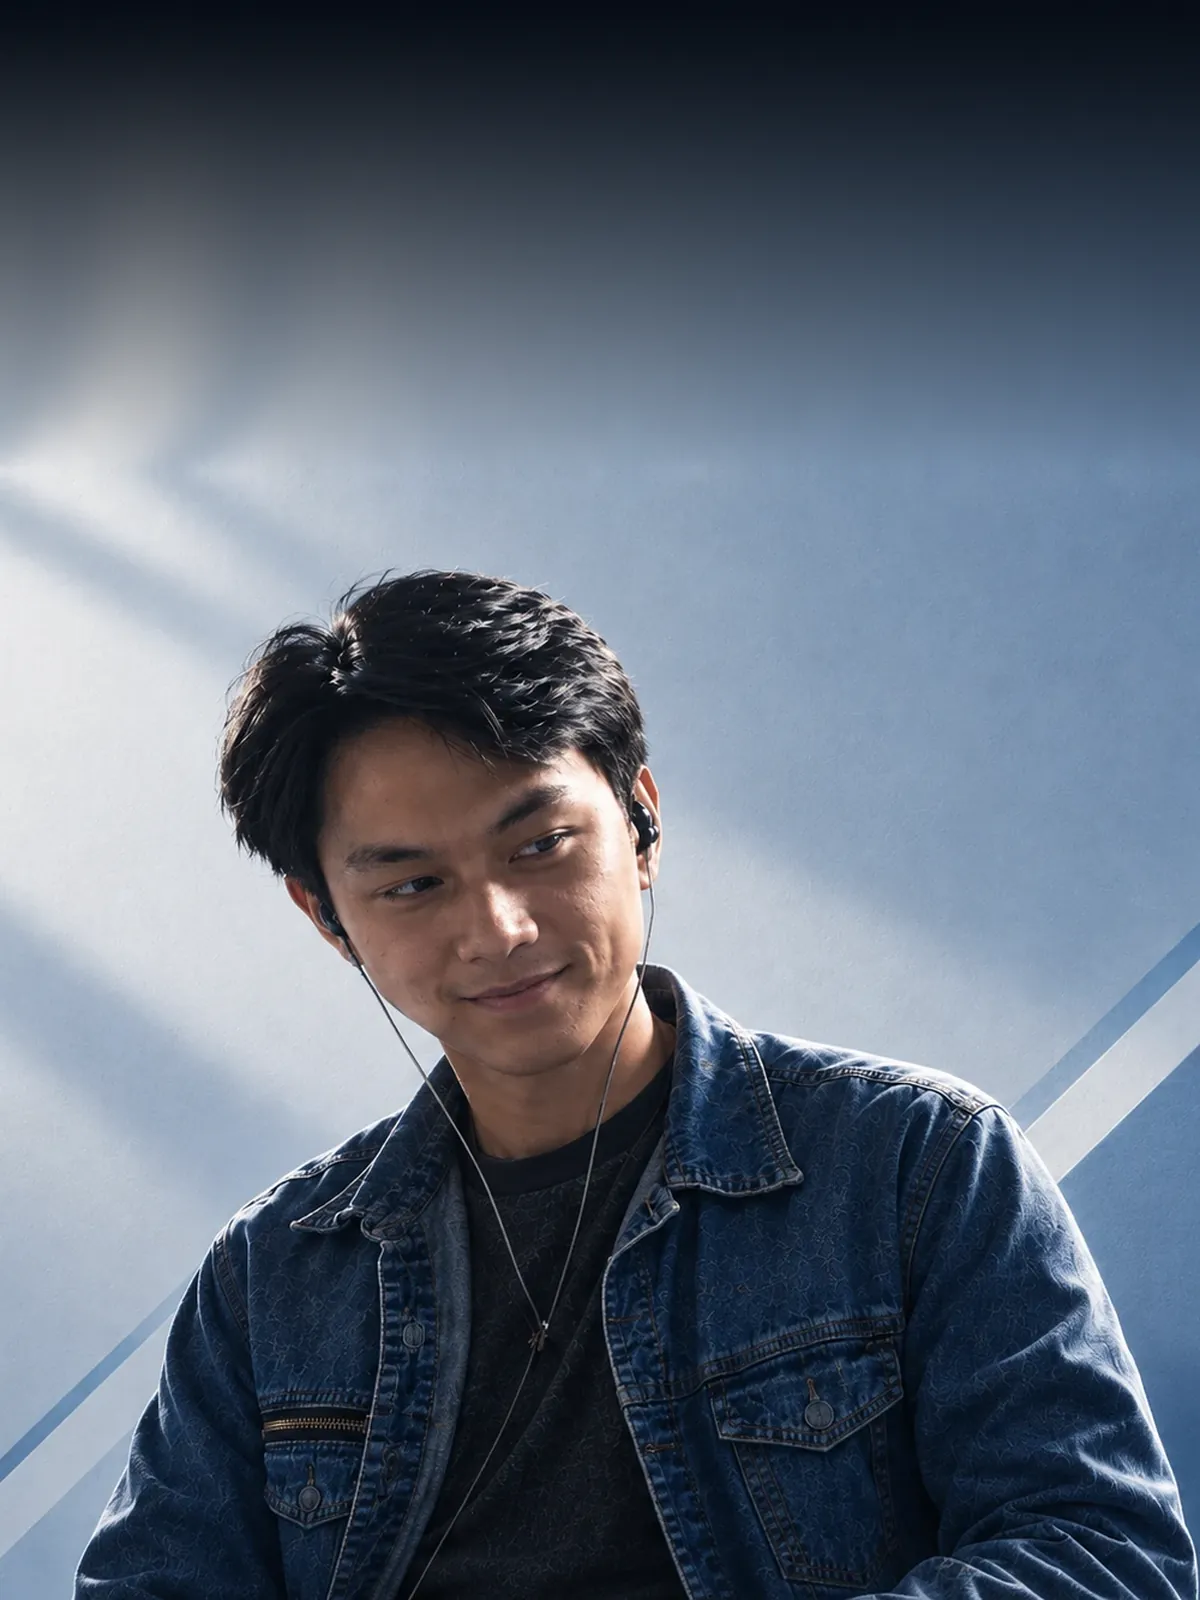
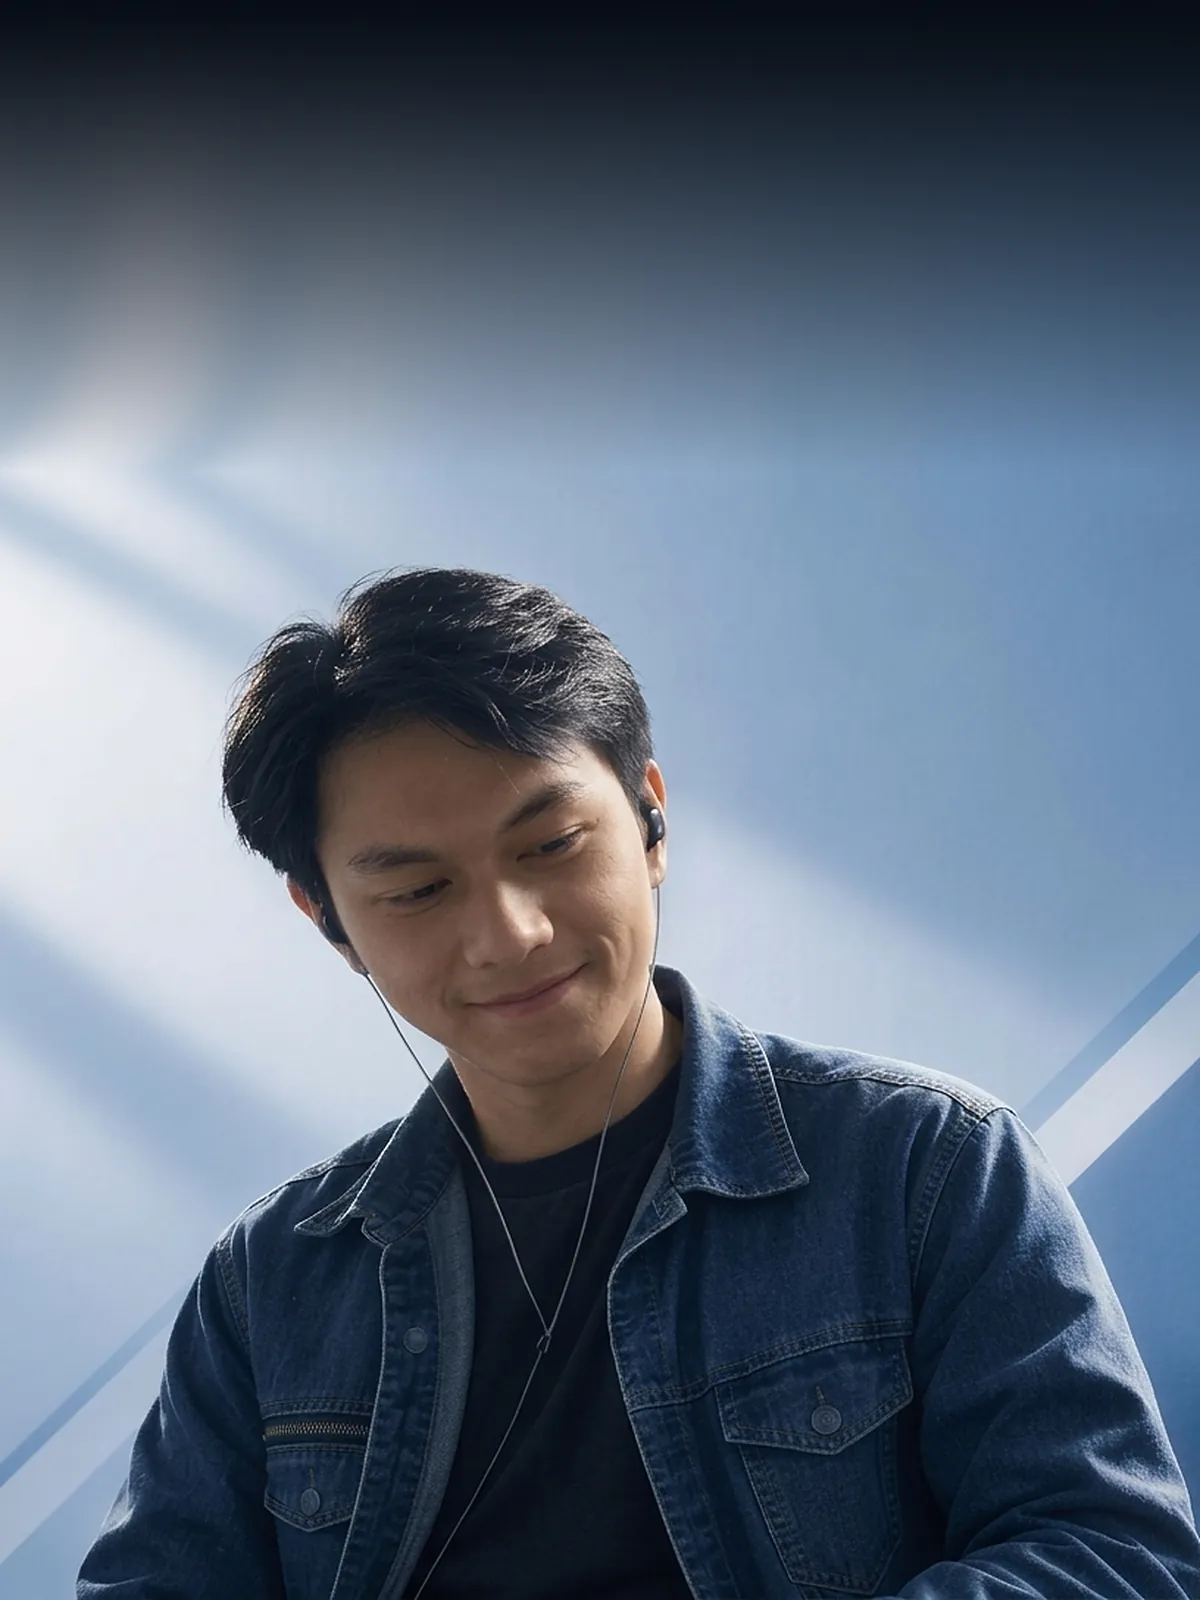
v4.3
v4.3: City pop heading font

Changed the heading font from Oswald to Josefin Sans, a geometric, vintage-style typeface that suits the city pop genre.
Widened the letter spacing on headings for a lighter, more retro look.
The hero name now measures itself and resizes to fit on one line in any font, and re-fits when the font loads or the window changes size.
Updated the README with the new font, how the name fitting works, and how to swap fonts.

diff --git a/index.html b/index.html
@@ -44,7 +44,7 @@
   <!-- Fonts: only the weights the page uses, and connections opened early -->
   <link rel="preconnect" href="https://fonts.googleapis.com">
   <link rel="preconnect" href="https://fonts.gstatic.com" crossorigin>
-  <link rel="stylesheet" href="https://fonts.googleapis.com/css2?family=Oswald:wght@300;500&family=Playfair+Display:ital,wght@1,600&display=swap">
+  <link rel="stylesheet" href="https://fonts.googleapis.com/css2?family=Josefin+Sans:wght@300;500&family=Playfair+Display:ital,wght@1,600&display=swap">
 
   <!-- TODO: Font Awesome is only used for the three social icons (Instagram, YouTube, Spotify). Once the final networks are
        chosen, swap them for inline SVGs and delete this line. -->
@@ -100,7 +100,7 @@
       <picture class="hero-bg">
         <source media="(max-width: 767px) and (orientation: portrait)" srcset="img/background-mobile.webp">
         <source media="(min-width: 768px) and (max-width: 1100px) and (orientation: portrait)" srcset="img/background-tablet.webp">
-        <img src="img/background-desktop.webp" width="1671" height="941" fetchpriority="high" decoding="async"
+        <img src="img/background-desktop.webp" width="1376" height="768" fetchpriority="high" decoding="async"
              alt="Anthony Joseph Robles in a denim jacket and earphones, against a blue wall">
       </picture>
 
@@ -230,7 +230,7 @@
         <ul class="gallery-grid">
           <li class="shot shot--lg shot--photo">
             <img src="img/portrait.webp" width="600" height="750" loading="lazy"
-                 alt="Anthony Joseph Robles, smiling and looking to the side">
+                 alt="Anthony Joseph Robles, smiling and looking down">
           </li>
           <li class="shot is-placeholder" aria-hidden="true"><img src="img/favicon.png" alt="" width="100" height="100" loading="lazy"></li>
           <li class="shot is-placeholder" aria-hidden="true"><img src="img/favicon.png" alt="" width="100" height="100" loading="lazy"></li>
@@ -252,7 +252,7 @@
       <div class="wrap bio-grid">
         <figure class="portrait">
           <img src="img/portrait.webp" width="600" height="750" loading="lazy"
-               alt="Portrait of Anthony Joseph Robles, smiling and looking to the side">
+               alt="Portrait of Anthony Joseph Robles, smiling and looking down">
         </figure>
 
         <div class="bio-copy">

diff --git a/script.js b/script.js
@@ -1,5 +1,5 @@
 /* Anthony Joseph Robles — script.js
-   Five jobs: fill in the footer year, keep the top bar height up to date, run the nav arrows, highlight the nav link for the section in view,
+   Six jobs: fill in the footer year, keep the top bar height up to date, fit the hero name on one line, run the nav arrows, highlight the nav link for the section in view,
    and check and send the contact form. Everything sits inside one function so nothing
    leaks into the page. */
 (() => {
@@ -20,6 +20,41 @@
     apply();
     if ("ResizeObserver" in window) new ResizeObserver(apply).observe(bar);
     else window.addEventListener("resize", apply);
+  }
+
+  /* ---------- Hero name: one line, as large as the room allows ---------- */
+  // The name must stay on a single line, so its size comes from its real width in whichever font
+  // is showing (the web font, or a fallback while that loads) instead of a fixed guess. Width
+  // grows in step with font size, so one measurement gives the exact size. CSS has a starting
+  // estimate for the moment before this runs.
+  function initHeroName() {
+    const box = document.querySelector(".hero-copy");
+    const name = box && box.querySelector("h1");
+    if (!name) return;
+    const MIN_PX = 16;
+    const MAX_PX = 96;
+    const FILL = 0.97; // leave a little breathing room at the end of the line
+
+    function fit() {
+      name.style.fontSize = ""; // back to the CSS estimate, then measure
+      const size = parseFloat(getComputedStyle(name).fontSize);
+      const width = name.getBoundingClientRect().width; // the h1 is width: max-content
+      const room = box.clientWidth;
+      if (!width || !room) return;
+      const next = Math.min(MAX_PX, Math.max(MIN_PX, (size * room * FILL) / width));
+      name.style.fontSize = `${Math.floor(next * 10) / 10}px`;
+    }
+
+    fit();
+    if (document.fonts) {
+      document.fonts.ready.then(fit);
+      document.fonts.addEventListener("loadingdone", fit); // re-fit once the web font arrives
+    }
+    let frame = 0;
+    window.addEventListener("resize", () => {
+      cancelAnimationFrame(frame);
+      frame = requestAnimationFrame(fit);
+    });
   }
 
   /* ---------- Scrollable nav (arrow buttons) ---------- */
@@ -198,6 +233,7 @@
   }
 
   trackTopbarHeight();
+  initHeroName();
   initNavScroller();
   initNavHighlight();
   initContactForm();

diff --git a/styles.css b/styles.css
@@ -11,7 +11,7 @@
   --bg-dark: #070d16;       /* page background: the jacket navy, darkened */
   --bg-bar: #04080f;        /* top bar and footer */
 
-  --font-display: "Oswald", "Arial Narrow", "Roboto Condensed", sans-serif;
+  --font-display: "Josefin Sans", "Century Gothic", Futura, "Avenir Next", "Trebuchet MS", sans-serif;
   --font-serif: "Playfair Display", Georgia, serif;
   --font-ui: Arial, Helvetica, sans-serif;
 
@@ -306,12 +306,14 @@ main {
 .hero-copy h1 {
   color: var(--ice);
   font-family: var(--font-display);
-  /* The name stays on one line, so its size follows the room available. The full name is
-     about 9.7 times the font size wide; dividing by 10.3 leaves a small safety margin. */
-  font-size: clamp(1.5rem, calc(var(--name-room) / 10.3), 6rem);
+  /* The name stays on one line. script.js measures its real width in whichever font is showing
+     and sets the size so it fills the room; this is only the starting estimate (the full name
+     is roughly 13 times the font size wide) for the moment before that runs. */
+  font-size: clamp(1rem, calc(var(--name-room) / 13.5), 6rem);
   font-weight: 300;
-  letter-spacing: 0.02em;
+  letter-spacing: 0.05em;
   line-height: 1.05;
+  width: max-content; /* so script.js can read the text's true width */
   white-space: nowrap;
   text-transform: uppercase;
   text-shadow: 0 2px 22px rgba(4, 10, 20, 0.55);
@@ -348,7 +350,7 @@ main {
   font-family: var(--font-display);
   font-size: 1.25rem;
   font-weight: 500;
-  letter-spacing: 0.075em;
+  letter-spacing: 0.1em;
   text-transform: uppercase;
 }
 
@@ -545,7 +547,7 @@ main {
   font-family: var(--font-display);
   font-size: clamp(2rem, 4.4vw, 3.5rem);
   font-weight: 300;
-  letter-spacing: 0.04em;
+  letter-spacing: 0.08em;
   line-height: 1.05;
   text-transform: uppercase;
 }
@@ -575,7 +577,7 @@ main {
   color: #fff;
   font-family: var(--font-display);
   font-weight: 500;
-  letter-spacing: 0.05em;
+  letter-spacing: 0.08em;
   text-transform: uppercase;
 }
 

diff --git a/README.md b/README.md
@@ -3,7 +3,7 @@
 A one-page musician profile site built with plain HTML, CSS and JavaScript. There is no framework and no build step.
 
 - **Live site:** https://minawph.pages.dev/
-- **Version:** v4.1 (23 October 2026)
+- **Version:** v4.3 (23 October 2026)
 
 ## What's on the page
 
@@ -23,7 +23,8 @@ index.html     Page content and structure
 styles.css     Colours, fonts, layout, responsive rules
 script.js      Nav highlighting, footer year, contact form
 img/
-  background-desktop.webp   Hero photo for wide screens and landscape
+  background-desktop.webp   Hero photo for wide screens and landscape (1376 x 768)
+  background-desktop.jpg    Full-quality copy of the hero photo (not loaded by the page)
   background-tablet.webp    Hero photo for portrait tablets (3:4)
   background-mobile.webp    Hero photo for portrait phones (9:16)
   portrait.webp             Bio and gallery photo (cropped from the hero photo)
@@ -87,9 +88,9 @@ Until step 2 is done, the Send button opens the visitor's email app instead.
 ## How it works
 
 - **Hero photo:** A `<picture>` element picks the desktop, tablet or mobile crop. The mobile and tablet crops were made from the desktop photo, with the background extended upward and faded to navy to leave room for the name. A soft navy tint over the hero (in `.hero::after`) keeps the name readable where it crosses the light stripe.
-- **Hero name:** It stays on one line (`white-space: nowrap`), and its font size is worked out from the room available (`--name-room` in `styles.css`). The full name is about 9.7 times the font size wide, so the size is that room divided by 10.3. If you change the name, the tagline font or the letter spacing, adjust that 10.3 so the name still fits.
+- **Hero name:** It stays on one line (`white-space: nowrap`). `script.js` (`initHeroName`) measures the name's real width in whichever font is showing and sets the font size so it fills the available room (`--name-room` in `styles.css`), up to 96 px. It re-fits when the web font finishes loading and when the window is resized, so changing the font needs no recalculation. The size in the CSS is only a starting estimate for the instant before the script runs.
 - **Nav:** It stays pinned on tablets and desktops. On phones it is one row you can swipe, with arrow buttons at each end.
-- **Fonts:** Oswald and Playfair Display come from Google Fonts. The social icons use Font Awesome.
+- **Fonts:** Josefin Sans (headings and titles) and Playfair Display (the italic tagline and lead lines) come from Google Fonts. The social icons use Font Awesome. To try another heading font, change the family name in the Google Fonts `<link>` in `index.html` and `--font-display` in `styles.css`; the hero name resizes itself to fit. Good alternatives for the same feel: Jost (closer to Futura), Righteous (rounded 70s style), Syncopate (very wide and retro-futuristic; the name will be smaller).
 - **Security:** `index.html` has a Content Security Policy that lists what the page may load. If you add something new (a Spotify or YouTube embed, analytics, another font host), add its address to the policy, or the browser will block it.
 
 ## Publish
@@ -98,5 +99,7 @@ The site is hosted on Cloudflare Pages. Pushing to the `main` branch on GitHub r
 
 ## Release history
 
+- **v4.3 (2026-10-23):** Heading font changed from Oswald to Josefin Sans, a geometric vintage-style typeface with wider letter spacing for a city pop feel. The hero name now sizes itself to fit on one line in any font.
+- **v4.2 (2026-10-23):** New hero photo. The phone and tablet hero crops, the Bio and Gallery portrait and the share image were rebuilt from it, so every size shows the same pose. `background-desktop.jpg` is the full-quality copy of the hero photo; the site itself uses the `.webp` files.
 - **v4.1 (2026-10-23):** New blue colour scheme taken from the hero photo, replacing the gold. Logo, favicons, share image, portrait and the mobile and tablet hero crops recoloured or rebuilt to match. CSS variables and the `.gold-rule` class renamed to neutral names (`--accent`, `.accent-rule`). Hero name now on a single line, with the size following the space available (about 93 px on a wide desktop, 34 px on a phone); on portrait phones and tablets it uses the full screen width.
 - **v1 (2026-10-22):** Home, Music, News, Gallery, Bio and Contact sections. Responsive hero photo crops. Contact form with Formspree support and an email fallback. Share-preview tags.
